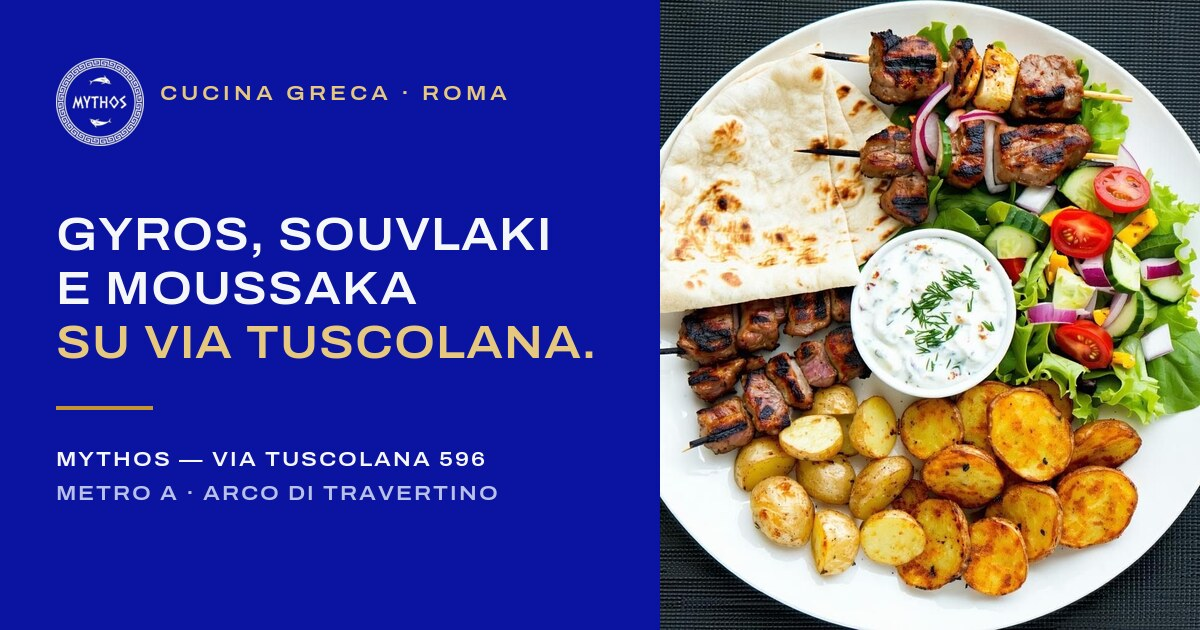
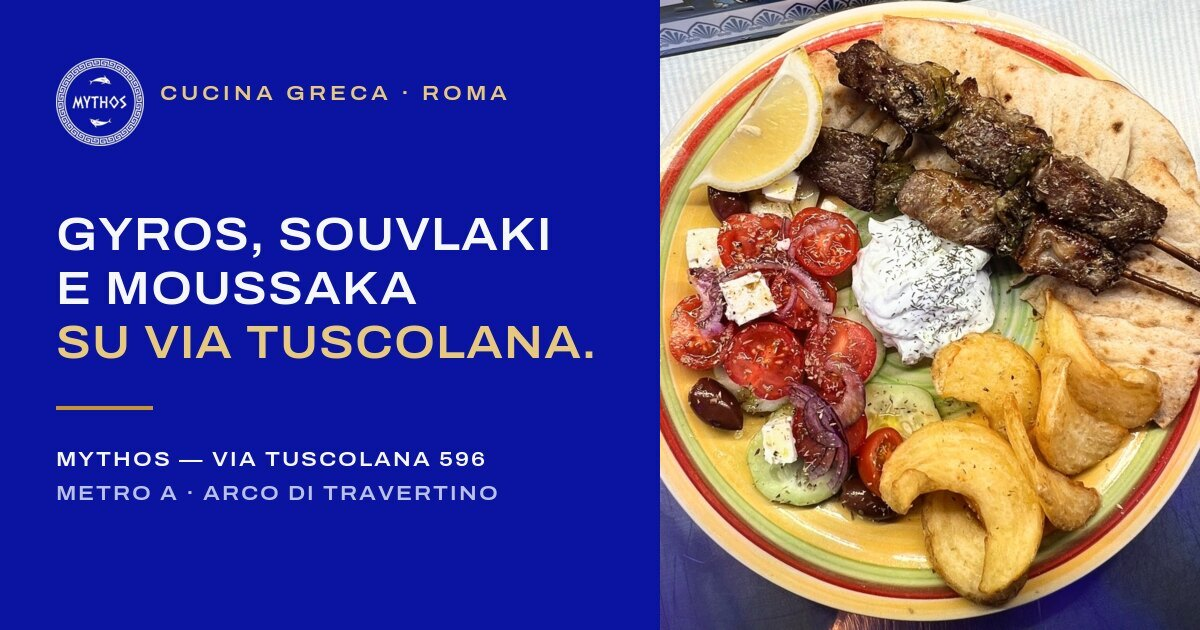
Use the restaurant's own photos on the home page
Hero: pork souvlaki plate. Beside the intro: three plates leaving the kitchen.
Dish grid: gyros, souvlaki and pita, mixed grill, saganaki, moussaka, gemista,
as six equal tiles. The share image gets the new hero photo. The provisional
stock photos are removed.

diff --git a/docs/index.html b/docs/index.html
@@ -105,8 +105,10 @@
     <figure class="hero__shot">
       <img class="hero__seal" src="assets/img/logo-disc.webp" width="320" height="320"
            alt="Il marchio Mythos: due delfini minoici e la scritta MYTHOS su un disco blu oltremare, bordato da una greca">
-      <img class="hero__pic" src="assets/img/hero-griglia.webp" width="1024" height="1024"
-           alt="Grigliata mista servita su un piatto bianco: spiedini di carne, patate al forno, insalata greca, pita e una ciotolina di tzatziki"
+      <img class="hero__pic" src="assets/img/hero-souvlaki.webp"
+           srcset="assets/img/hero-souvlaki-640.webp 640w, assets/img/hero-souvlaki.webp 1200w"
+           sizes="(min-width: 860px) 50vw, 100vw" width="1200" height="1254"
+           alt="Piatto di souvlaki di maiale da Mythos: spiedini con pita, insalata greca con feta e olive, tzatziki, patate e limone"
            fetchpriority="high" decoding="async">
     </figure>
   </div>
@@ -124,9 +126,9 @@
     </div>
 
     <figure class="fig" data-reveal>
-      <img src="assets/img/veranda.webp" srcset="assets/img/veranda-480.webp 480w, assets/img/veranda.webp 840w" sizes="(min-width: 860px) 420px, 92vw" width="900" height="1172" loading="lazy" decoding="async"
-           alt="La veranda coperta al tramonto: pareti arancioni, tovaglie azzurre e sedie impagliate">
-      <figcaption data-en="The covered veranda">La veranda</figcaption>
+      <img src="assets/img/servizio.webp" srcset="assets/img/servizio-480.webp 480w, assets/img/servizio.webp 840w" sizes="(min-width: 860px) 420px, 92vw" width="840" height="1120" loading="lazy" decoding="async"
+           alt="Tre piatti appena usciti dalla cucina di Mythos: gyros e souvlaki di pollo con pita, patate, insalata greca e tzatziki">
+      <figcaption data-en="Straight from our kitchen">Appena usciti dalla cucina</figcaption>
     </figure>
   </div>
 </section>
@@ -140,37 +142,29 @@
     </div>
 
     <ul class="dishes" data-reveal data-stagger>
-      <li class="dish dish--wide">
-        <div class="dish__box"><img src="assets/img/gyros-cut.webp" srcset="assets/img/gyros-cut-620.webp 620w, assets/img/gyros-cut.webp 1200w" sizes="(min-width: 1160px) 580px, (min-width: 720px) 50vw, 45vw" width="1200" height="800" loading="lazy" decoding="async" alt="Pita al gyros aperta a metà, con carne, pomodoro, cipolla e prezzemolo"></div>
+      <li class="dish">
+        <div class="dish__box"><img src="assets/img/gyros-piatto.webp" srcset="assets/img/gyros-piatto-420.webp 420w, assets/img/gyros-piatto.webp 800w" sizes="(min-width: 1160px) 386px, (min-width: 720px) 33vw, 45vw" width="800" height="808" loading="lazy" decoding="async" alt="Piatto di gyros: carne su pita, insalata greca con feta e olive, patate e tzatziki"></div>
         <p class="dish__n">Gyros</p>
       </li>
-      <li class="dish dish--wide">
-        <div class="dish__box"><img src="assets/img/grill.webp" srcset="assets/img/grill-620.webp 620w, assets/img/grill.webp 1200w" sizes="(min-width: 1160px) 580px, (min-width: 720px) 50vw, 45vw" width="1200" height="800" loading="lazy" decoding="async" alt="Spiedini alla griglia con patate al forno, insalata, tzatziki e pita"></div>
-        <p class="dish__n" data-en="From the grill">Dalla griglia</p>
+      <li class="dish">
+        <div class="dish__box"><img src="assets/img/souvlaki-pita.webp" srcset="assets/img/souvlaki-pita-420.webp 420w, assets/img/souvlaki-pita.webp 800w" sizes="(min-width: 1160px) 386px, (min-width: 720px) 33vw, 45vw" width="800" height="916" loading="lazy" decoding="async" alt="Piatto di souvlaki di pollo con pita, patate, insalata greca e tzatziki, accanto a una pita souvlaki di maiale"></div>
+        <p class="dish__n" data-en="Souvlaki &amp; pita">Souvlaki e pita</p>
       </li>
       <li class="dish">
-        <div class="dish__box"><img src="assets/img/gyros-cone.webp" srcset="assets/img/gyros-cone-420.webp 420w, assets/img/gyros-cone.webp 800w" sizes="(min-width: 1160px) 386px, (min-width: 720px) 33vw, 45vw" width="1000" height="1250" loading="lazy" decoding="async" alt="Pita gyros aperta nel piatto, con carne gyros, cipolla, pomodoro e tzatziki"></div>
-        <p class="dish__n">Pita gyros</p>
+        <div class="dish__box"><img src="assets/img/grigliata.webp" srcset="assets/img/grigliata-420.webp 420w, assets/img/grigliata.webp 800w" sizes="(min-width: 1160px) 386px, (min-width: 720px) 33vw, 45vw" width="800" height="704" loading="lazy" decoding="async" alt="Grigliata mista: gyros, spiedini di maiale e pollo, bifteki, tzatziki e limone"></div>
+        <p class="dish__n" data-en="Mixed grill">Grigliata mista</p>
       </li>
       <li class="dish">
-        <div class="dish__box"><img src="assets/img/salad.webp" srcset="assets/img/salad-420.webp 420w, assets/img/salad.webp 800w" sizes="(min-width: 1160px) 386px, (min-width: 720px) 33vw, 45vw" width="1000" height="1250" loading="lazy" decoding="async" alt="Insalata greca vista dall'alto: feta, peperoni, olive e cetriolo"></div>
-        <p class="dish__n" data-en="Greek salad">Insalata greca</p>
+        <div class="dish__box"><img src="assets/img/saganaki.webp" srcset="assets/img/saganaki-420.webp 420w, assets/img/saganaki.webp 800w" sizes="(min-width: 1160px) 386px, (min-width: 720px) 33vw, 45vw" width="800" height="1067" loading="lazy" decoding="async" alt="Saganaki: formaggio impanato e fritto con limone e triangoli di pita all'origano"></div>
+        <p class="dish__n">Saganaki</p>
       </li>
       <li class="dish">
-        <div class="dish__box"><img src="assets/img/souvlaki.webp" srcset="assets/img/souvlaki-420.webp 420w, assets/img/souvlaki.webp 800w" sizes="(min-width: 1160px) 386px, (min-width: 720px) 33vw, 45vw" width="1000" height="1250" loading="lazy" decoding="async" alt="Spiedini di souvlaki con patatine, insalata greca e tzatziki"></div>
-        <p class="dish__n">Souvlaki</p>
+        <div class="dish__box"><img src="assets/img/moussaka.webp" srcset="assets/img/moussaka-420.webp 420w, assets/img/moussaka.webp 800w" sizes="(min-width: 1160px) 386px, (min-width: 720px) 33vw, 45vw" width="800" height="662" loading="lazy" decoding="async" alt="Moussakà gratinata nel suo coccio"></div>
+        <p class="dish__n" data-en="Moussaka">Moussakà</p>
       </li>
       <li class="dish">
-        <div class="dish__box"><img src="assets/img/tzatziki.webp" srcset="assets/img/tzatziki-420.webp 420w, assets/img/tzatziki.webp 800w" sizes="(min-width: 1160px) 386px, (min-width: 720px) 33vw, 45vw" width="1000" height="1250" loading="lazy" decoding="async" alt="Ciotola di tzatziki con triangoli di pita tostata"></div>
-        <p class="dish__n">Tzatziki</p>
-      </li>
-      <li class="dish">
-        <div class="dish__box"><img src="assets/img/dolmades.webp" srcset="assets/img/dolmades-420.webp 420w, assets/img/dolmades.webp 800w" sizes="(min-width: 1160px) 386px, (min-width: 720px) 33vw, 45vw" width="1000" height="1250" loading="lazy" decoding="async" alt="Dolmades, foglie di vite ripiene, su un piatto bianco"></div>
-        <p class="dish__n">Dolmades</p>
-      </li>
-      <li class="dish">
-        <div class="dish__box"><img src="assets/img/baklava.webp" srcset="assets/img/baklava-420.webp 420w, assets/img/baklava.webp 800w" sizes="(min-width: 1160px) 386px, (min-width: 720px) 33vw, 45vw" width="1000" height="1250" loading="lazy" decoding="async" alt="Baklava con granella di pistacchio su un piatto ovale"></div>
-        <p class="dish__n">Baklava</p>
+        <div class="dish__box"><img src="assets/img/gemista.webp" srcset="assets/img/gemista-420.webp 420w, assets/img/gemista.webp 800w" sizes="(min-width: 1160px) 386px, (min-width: 720px) 33vw, 45vw" width="800" height="1057" loading="lazy" decoding="async" alt="Gemista: pomodori, peperoni e zucchine ripieni di riso, al forno con le patate"></div>
+        <p class="dish__n">Gemista</p>
       </li>
     </ul>
   </div>
